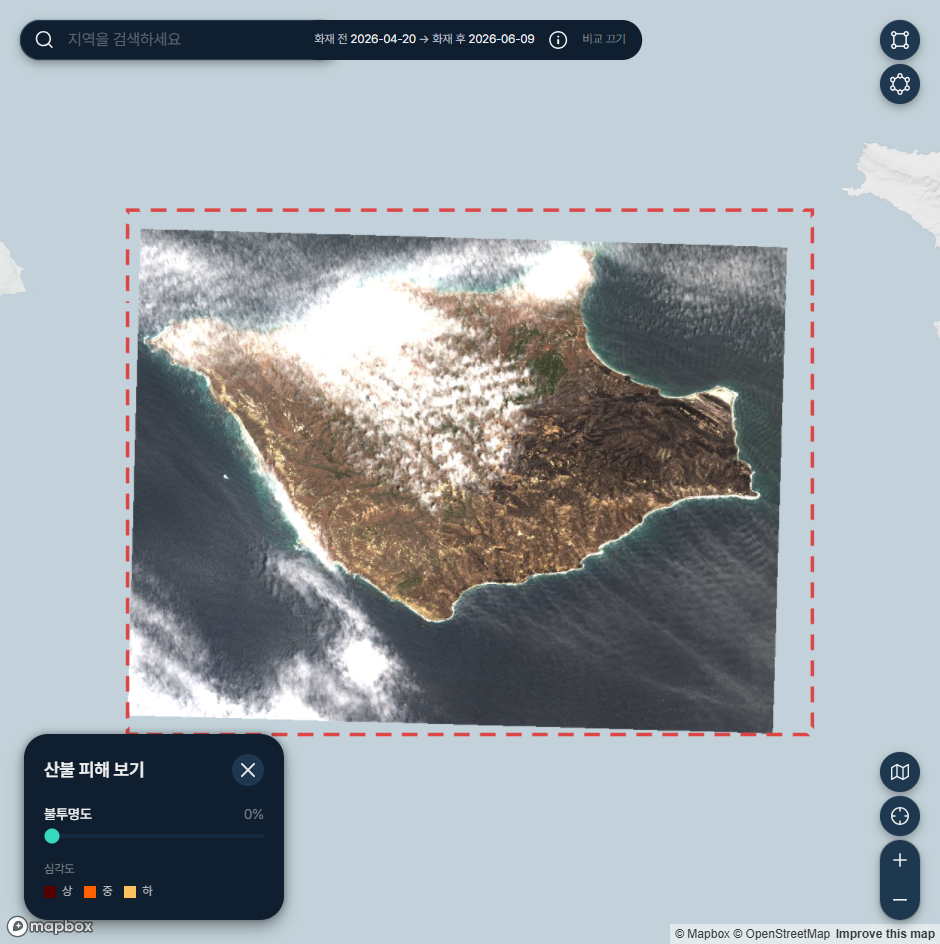
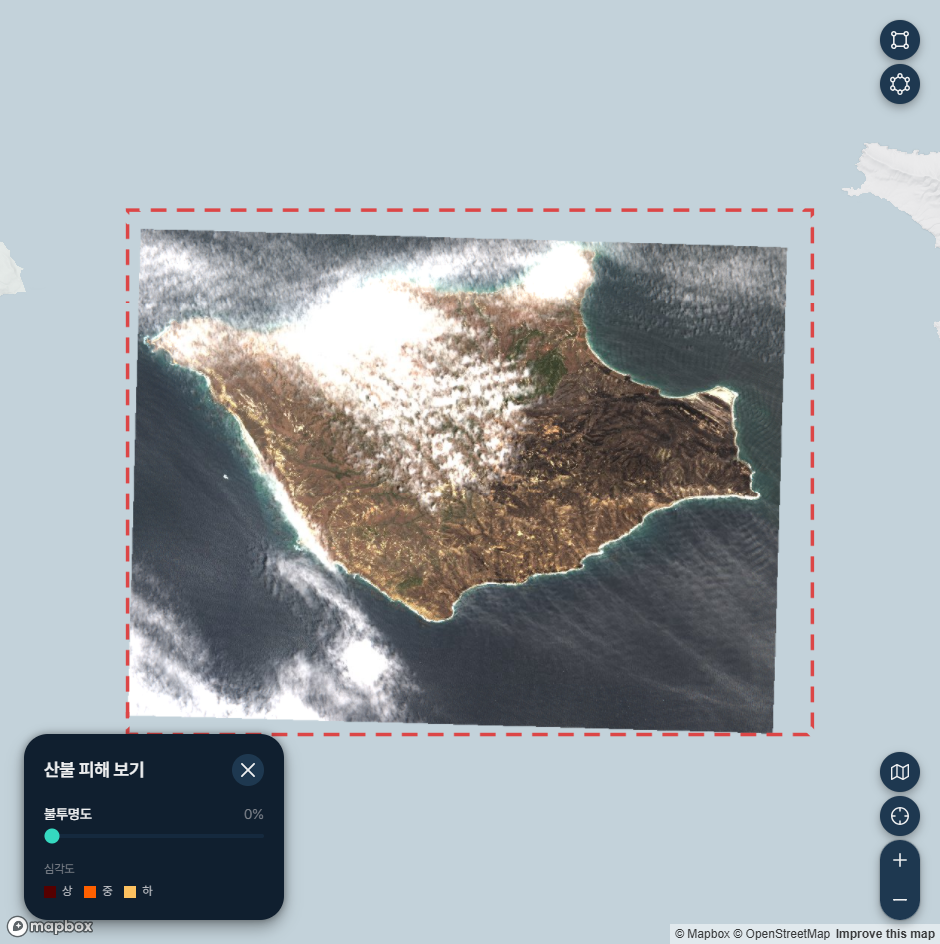
feat(proposals): match map top bar to current live service design
The compare captures (2026-09-28) baked in the old merged search+compare
bar — the very overlap EUNJI CHOI flagged in Figma comment 1943233805.
The live service (verified against today's production bundle) now shows
a separate 280px search box at top-left and a centered rounded-full
compare pill with Before/After solid badges (#0d336e / #791716), dates,
info and close icons.

- Erased the old bar from the 3 compare captures (sea band copied over
  it with sharp — no re-capture needed)
- Recreated the current search box + compare pill as decorative DOM in
  BeforeAfterSlider (MAP_TOP_BARS spec, pointer-events none)
- Dropped the demo-only bottom date chips now duplicated by the pill

Resolves the one deferred Figma review item.

🤖 Generated with Claude Code

Changed region(s): [[0.0, 0.0, 0.6787, 0.0922]]

diff --git a/src/components/proposals/BeforeAfterSlider.tsx b/src/components/proposals/BeforeAfterSlider.tsx
@@ -1,7 +1,7 @@
 'use client';
 
 import { useCallback, useEffect, useRef, useState } from 'react';
-import { DAMAGE_PANEL } from '@/lib/agent-tutorial-steps';
+import { DAMAGE_PANEL, MAP_TOP_BARS } from '@/lib/agent-tutorial-steps';
 
 interface BeforeAfterSliderProps {
   beforeSrc: string;
@@ -157,19 +157,9 @@ export default function BeforeAfterSlider({
         </div>
       </div>
 
-      {/* 라벨 칩 */}
-      <span
-        className="absolute px-2 py-1 rounded text-xs font-mono pointer-events-none"
-        style={{ bottom: '2%', left: '32%', background: 'rgba(14,14,16,0.8)', color: '#E8E4DF' }}
-      >
-        {beforeLabel}
-      </span>
-      <span
-        className="absolute bottom-3 right-3 px-2 py-1 rounded text-xs font-mono pointer-events-none"
-        style={{ background: 'rgba(14,14,16,0.8)', color: '#E8E4DF' }}
-      >
-        {afterLabel}
-      </span>
+      {/* 지도 상단 UI — 실서비스 현행 디자인 재현 (장식용, 조작 불가).
+          캡쳐의 옛 통합 바(검색+비교 겹침)는 이미지에서 지웠다 */}
+      <MapTopBars />
 
       {/* '산불 피해 보기' 패널 — 실캡쳐 위치·색 실측값으로 DOM 재현 (불투명도 실동작) */}
       <div
@@ -244,4 +234,74 @@ export default function BeforeAfterSlider({
 
 function easeInOut(t: number): number {
   return t < 0.5 ? 2 * t * t : 1 - Math.pow(-2 * t + 2, 2) / 2;
+}
+
+// 실서비스의 지도 상단 UI 재현: 좌상단 검색 박스 + 상단 중앙 비교 알약.
+// 색·배치는 라이브 번들 실측값 (MAP_TOP_BARS 주석 참조). 장식용이라
+// pointer-events 를 받지 않는다 — 클릭/드래그는 비교 슬라이더로 통과.
+function MapTopBars() {
+  const { search, compare, colors: c } = MAP_TOP_BARS;
+  const badge = (bg: string, fg: string): React.CSSProperties => ({
+    background: bg,
+    color: fg,
+    borderRadius: '999px',
+    padding: '0.1em 0.65em',
+    fontSize: '0.86em',
+    fontWeight: 600,
+    lineHeight: 1.45,
+  });
+  return (
+    <div className="pointer-events-none" aria-hidden>
+      {/* 검색 박스 */}
+      <div
+        className="absolute flex items-center"
+        style={{
+          left: `${search.rect.x}%`,
+          top: `${search.rect.y}%`,
+          width: `${search.rect.w}%`,
+          height: `${search.rect.h}%`,
+          background: c.bg,
+          borderRadius: '0.6em',
+          boxShadow: '0 4px 12px rgba(0, 0, 0, 0.35)',
+          padding: '0 0.9em',
+          gap: '0.6em',
+          color: c.icon,
+        }}
+      >
+        <svg viewBox="0 0 24 24" width="1.1em" height="1.1em" fill="none" aria-hidden>
+          <circle cx="11" cy="11" r="6.5" stroke="currentColor" strokeWidth="1.8" />
+          <path d="M16 16L20.5 20.5" stroke="currentColor" strokeWidth="1.8" strokeLinecap="round" />
+        </svg>
+        <span>{search.placeholder}</span>
+      </div>
+
+      {/* 비교 알약 — Before/After 배지 + 날짜 + ⓘ + ✕ */}
+      <div
+        className="absolute flex items-center"
+        style={{
+          left: '50%',
+          top: `${compare.top}%`,
+          transform: 'translateX(-50%)',
+          background: c.bg,
+          borderRadius: '999px',
+          boxShadow: '0 4px 12px rgba(0, 0, 0, 0.35)',
+          padding: '0.32em 0.6em 0.32em 0.9em',
+          gap: '0.75em',
+          whiteSpace: 'nowrap',
+        }}
+      >
+        <span className="flex items-center" style={{ gap: '0.4em' }}>
+          <span style={badge(c.infoBold, c.infoSubtle)}>{compare.beforeLabel}</span>
+          <span style={{ color: c.text, fontWeight: 500 }}>{compare.beforeDate}</span>
+        </span>
+        <span style={{ color: c.icon }}>→</span>
+        <span className="flex items-center" style={{ gap: '0.4em' }}>
+          <span style={badge(c.dangerBold, c.dangerSubtle)}>{compare.afterLabel}</span>
+          <span style={{ color: c.text, fontWeight: 500 }}>{compare.afterDate}</span>
+        </span>
+        <span style={{ color: c.icon, fontSize: '1.05em' }}>ⓘ</span>
+        <span style={{ color: c.icon, fontSize: '1.05em' }}>✕</span>
+      </div>
+    </div>
+  );
 }

diff --git a/src/lib/agent-tutorial-steps.ts b/src/lib/agent-tutorial-steps.ts
@@ -242,6 +242,35 @@ export const COMPARE_ASSETS = {
   afterLabel: '화재 후 2026-06-09',
 } as const;
 
+// 지도 상단 UI — 실서비스(agent.ep.naraspace.com) 현행 디자인과 동일하게 DOM 재현
+// (2026-10-08 라이브 번들 실측: 검색 박스 absolute top-20 left-20 w-[280px],
+// 비교 알약 top-20 중앙 rounded-full + Before/After solid 배지, 토큰
+// --status-info-bold #0d336e / --status-danger-bold #791716).
+// 캡쳐에 구워져 있던 옛 통합 바(검색+비교 겹침, 피그마 댓글 1943233805)는
+// 이미지에서 지웠다. 좌표는 지도 크롭(940×944) 기준 %.
+export const MAP_TOP_BARS = {
+  search: {
+    rect: { x: 2.13, y: 2.12, w: 29.8, h: 4.24 }, // 20,20,280,40 px
+    placeholder: '지역을 검색하세요',
+  },
+  compare: {
+    top: 2.12,
+    beforeLabel: 'Before',
+    afterLabel: 'After',
+    beforeDate: '2026-04-20',
+    afterDate: '2026-06-09',
+  },
+  colors: {
+    bg: '#101f2f',
+    infoBold: '#0d336e',
+    infoSubtle: '#cce4fe',
+    dangerBold: '#791716',
+    dangerSubtle: '#f8d8d8',
+    icon: '#8fa0b3',
+    text: '#e7ebef',
+  },
+} as const;
+
 // '산불 피해 보기' 패널 — 실캡쳐 픽셀 실측 (map-after.png, 지도 크롭 940×944 기준 %).
 // 불투명도 슬라이더를 직접 조작할 수 있도록 DOM 으로 재현한다.
 export const DAMAGE_PANEL = {
